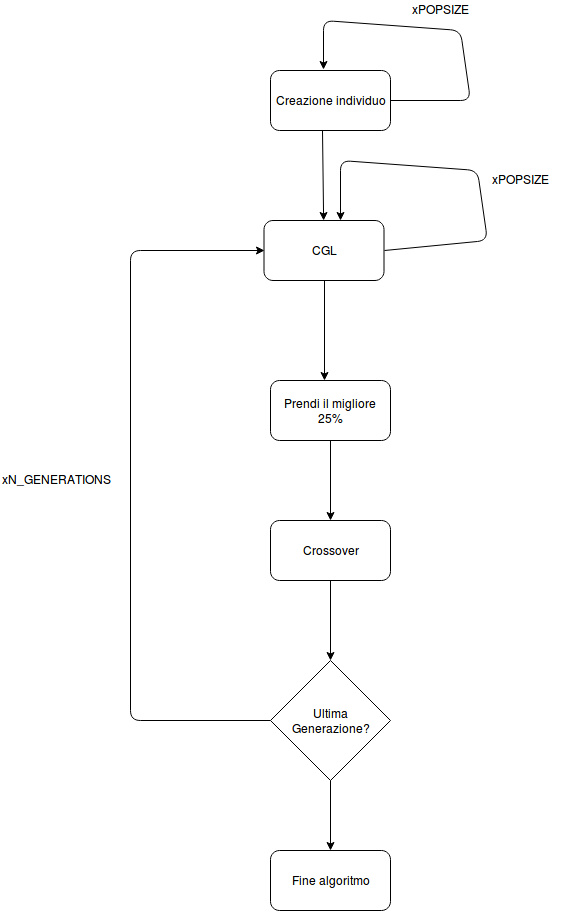
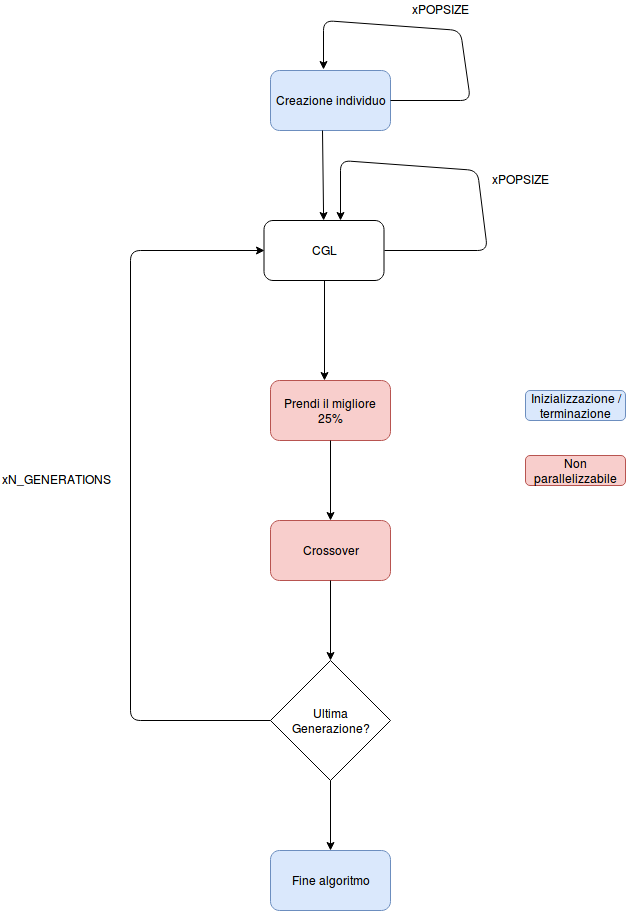
pls

diff --git a/README.md b/README.md
@@ -37,12 +37,7 @@ Le tecniche di parallelizzazione utilizzate per la nostra analisi sono le seguen
 
 ## L'algoritmo
 
-**Disegni flowchart**
 ![Grafico cgl](./HighLevelCgl.png)
-
-* Profilazione
-* Hotpath con -O0 / -O2
-* Grafici hotpath (scrot grafo)
 
 L'algoritmo sequenziale rispetta il seguente *flowchart*:
 ![Grafico cgl](./HighLevelAlg.png)
@@ -127,7 +122,7 @@ POPSIZE: 50
 Variando i parametri il grafo presenta una variazione trascurabile nelle percentuale dei
 tempi di esecuzione dei metodi sopra citati.
 
-## Partitionin in Shared memory
+## Partitioning in Shared memory
 
 Il calcolo del CGL si presta a tecniche di parallelizzazione *embarassingly parallel*
 come il *partitioning* in quanto e\` possibile applicare la *rule of life* utilizzando
